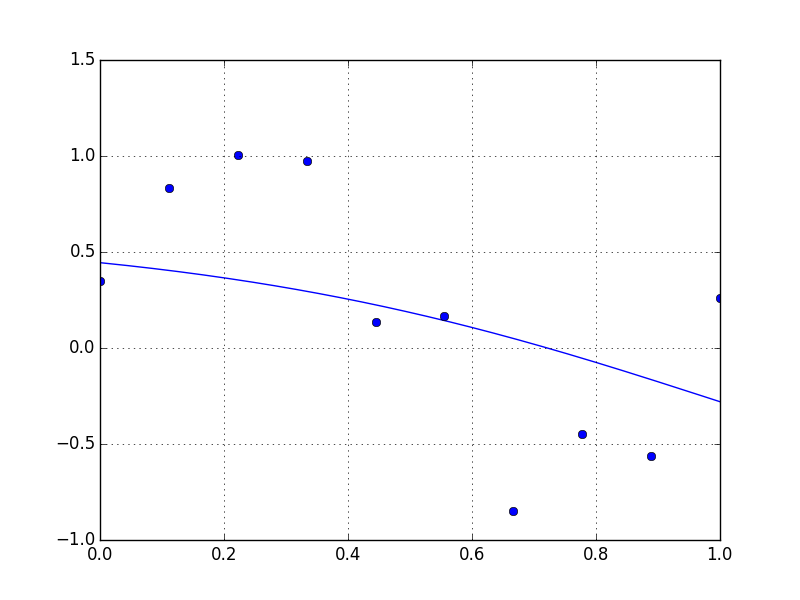
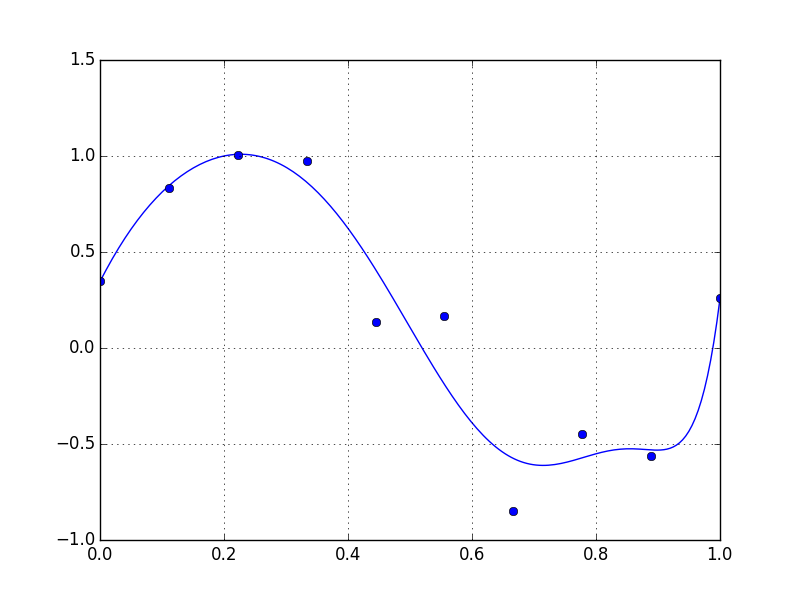
RR

diff --git a/pset1/rr.py b/pset1/rr.py
@@ -7,20 +7,21 @@ def ridge_regression(x, y, l, M):
 	matrix_x = np.zeros(shape = (len(x), M + 1))
 	for i in xrange(len(x)):
 		matrix_x[i] = [x[i] ** j for j in xrange(M + 1)]
-	print matrix_x
 	identity = l * np.identity(M + 1)
 	matrix_y = y[:, np.newaxis]
 	return np.dot(np.dot(inv(np.dot(matrix_x.T, matrix_x) + identity), matrix_x.T), matrix_y)
 
 xdata = np.array([0.000000, 0.111111, 0.222222, 0.333333, 0.444444, 0.555556, 0.666667, 0.777778, 0.888889, 1.00000])
 ydata = np.array([0.349486, 0.830839, 1.007332, 0.971507, 0.133066, 0.166823, -0.848307, -0.445686, -0.563567, 0.261502])
-l = 1
+l = 0.00000001
 M = 10
 W = [i[0] for i in  ridge_regression(xdata, ydata, l, M)]
 
-print W
 rx = linspace(0, 1, 200)
-ry = 0.44445594686119838 -0.32704035116221264 * rx -0.30870137298037709 * (rx ** 2) -0.16092522705038409 * (rx ** 3) -0.020195360919547531 * (rx ** 4) + 0.092642816811854004 * (rx ** 5)
+
+ry = 0
+for i in xrange(len(W)):
+	ry += W[i] * (rx ** i)
 plot(rx, ry)
 
 x = [0.000000, 0.111111, 0.222222, 0.333333, 0.444444, 0.555556, 0.666667, 0.777778, 0.888889, 1.00000]
